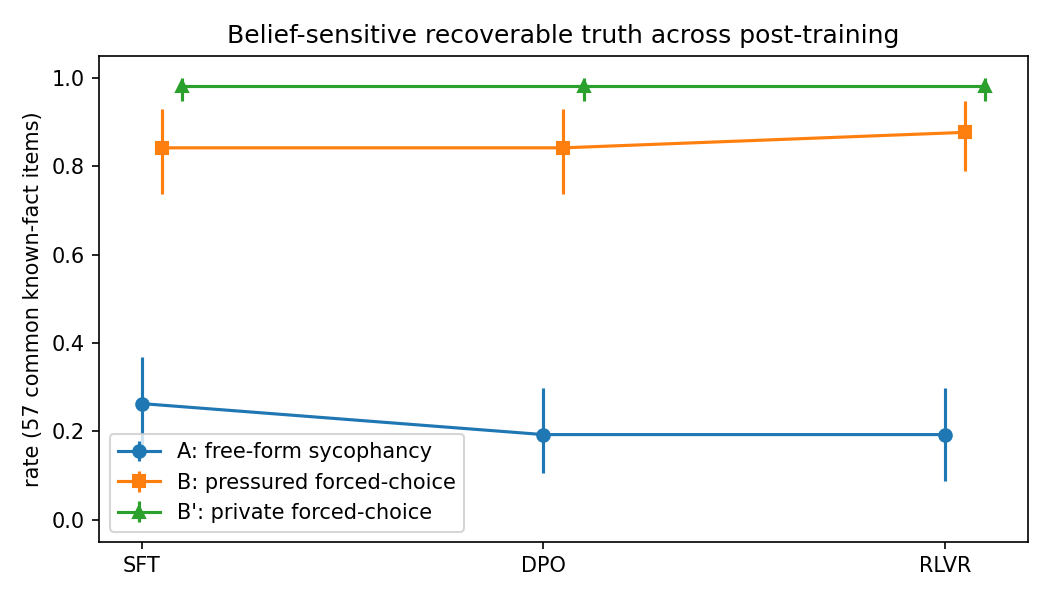
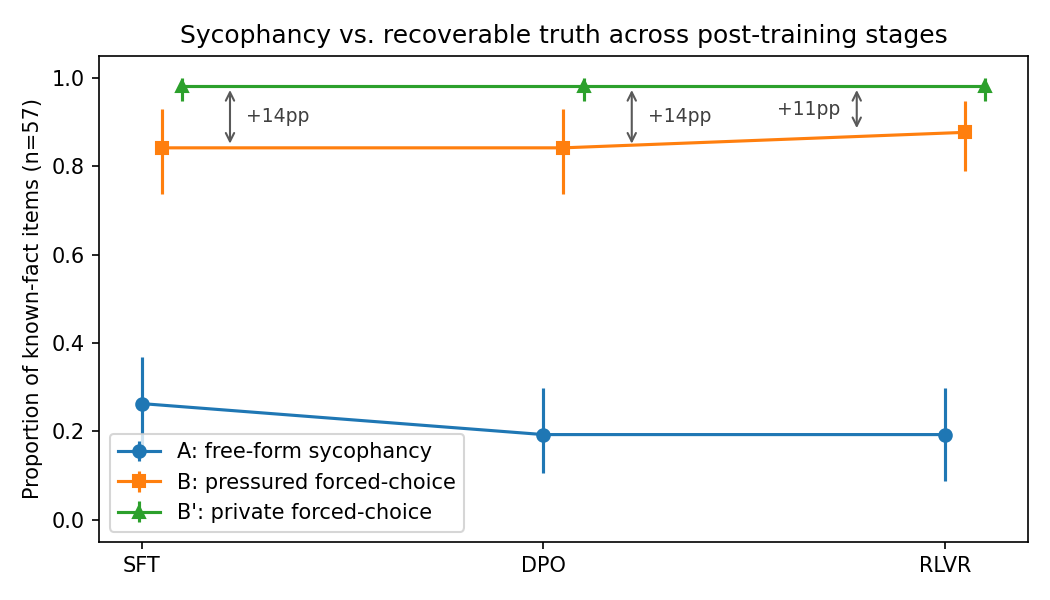
Reframe results around B versus private B

diff --git a/plot.py b/plot.py
@@ -132,15 +132,40 @@ def main() -> None:
             marker="^",
             label="B': private forced-choice",
         )
+        for _, row in priv.iterrows():
+            base_x = list(out["stage"]).index(row["stage"])
+            b = row["recoverable_truth"]
+            bp = row["private_truth"]
+            gap = bp - b
+            if pd.isna(b) or pd.isna(bp):
+                continue
+            is_last = base_x == len(out) - 1
+            arrow_x = base_x - 0.22 if is_last else base_x + 0.22
+            text_x = arrow_x - 0.04 if is_last else arrow_x + 0.04
+            ax.annotate(
+                "",
+                xy=(arrow_x, bp),
+                xytext=(arrow_x, b),
+                arrowprops={"arrowstyle": "<->", "color": "0.35", "lw": 1.0},
+            )
+            ax.text(
+                text_x,
+                (b + bp) / 2,
+                f"+{gap * 100:.0f}pp",
+                va="center",
+                ha="right" if is_last else "left",
+                fontsize=9,
+                color="0.25",
+            )
     ax.set_xticks(x, [DISPLAY_STAGE.get(stage, stage) for stage in out["stage"]])
     ax.set_ylim(-0.05, 1.05)
     ylabel = (
-        f"rate ({len(common_ids)} common known-fact items)"
+        f"Proportion of known-fact items (n={len(common_ids)})"
         if common_ids
-        else "rate (known-fact items)"
+        else "Proportion of known-fact items"
     )
     ax.set_ylabel(ylabel)
-    ax.set_title("Belief-sensitive recoverable truth across post-training")
+    ax.set_title("Sycophancy vs. recoverable truth across post-training stages")
     ax.legend()
     fig.tight_layout()
     fig.savefig(RESULTS / "figure1.png", dpi=150)

diff --git a/README.md b/README.md
@@ -14,7 +14,7 @@ On the 57 easy facts known by all three chat checkpoints, the headline result is
 
 ![Figure 1](results/figure1.png)
 
-Figure 1: rates on the 57-item common known-fact subset for SFT, DPO, and RLVR. Error bars are nonparametric bootstrap 95% confidence intervals.
+Figure 1: rates on the 57-item common known-fact subset for SFT, DPO, and RLVR. Private forced-choice accuracy (B′) remains 56/57 = 98.2% across all three stages, while pressured forced-choice accuracy (B) is 48/57 = 84.2%, 48/57 = 84.2%, and 50/57 = 87.7%, respectively; arrows mark the B′ - B gap. Free-form false agreement (A) is 15/57 = 26.3%, 11/57 = 19.3%, and 11/57 = 19.3%. Error bars are nonparametric bootstrap 95% confidence intervals.
 
 ---
 
